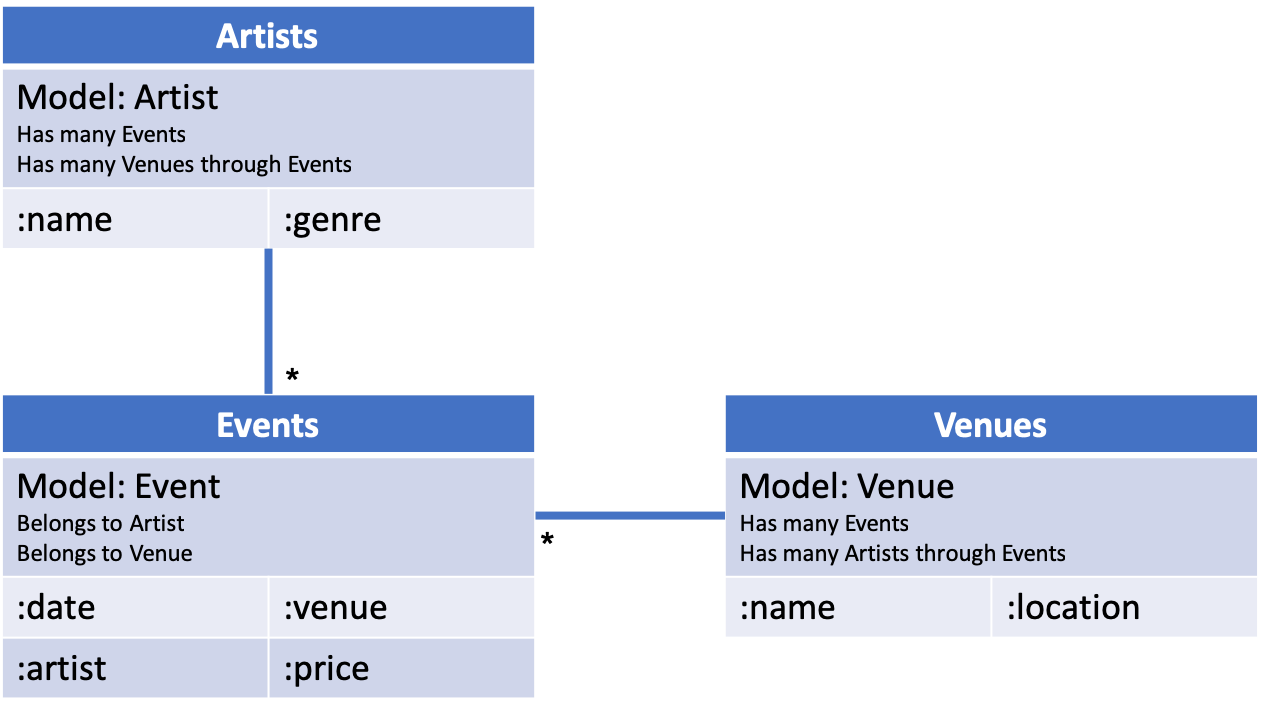
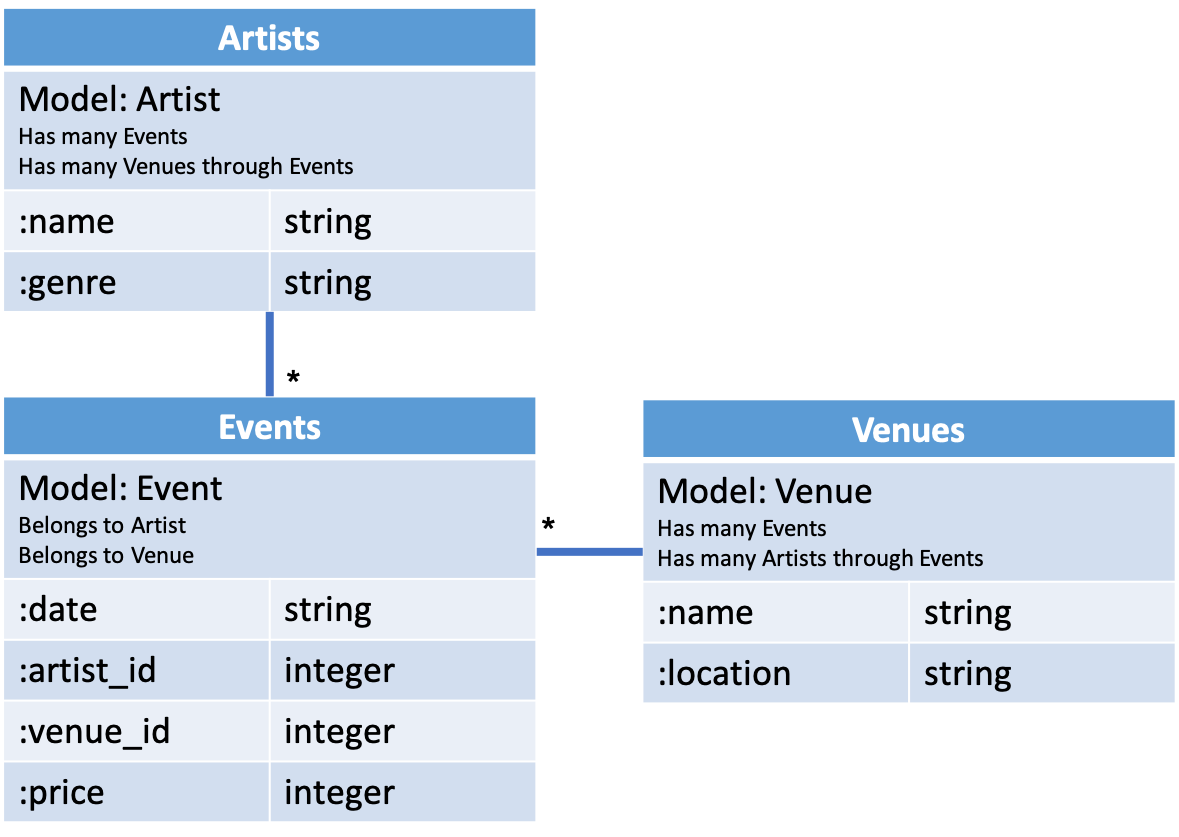
added object models daiagram

diff --git a/OUR_README.md b/OUR_README.md
@@ -10,8 +10,9 @@ This is a CLI-based application and as such, is somewhat limited in functionalit
 2. Search for shows by venue and city
 3. Search for shows by genre and city
 
-## Data Model
-There
+## Object Model
+
+
 
 ## Installation
 This is not a standalone executable. We recommend forking this entire directory and cloning it down. The run.rb file in /bin depends on quite a few other files.
@@ -21,12 +22,11 @@ This is write-up assumes you have a working Ruby environment on your computer wi
 ### 1. Create Database
 Cd into the root installation directory and run the following Rake task:
 `rake db:create`
-This will create the database that will store the results of your TicketMasterAPI query--and all artist, event, and venue objects.
+This will create the database that will store the results of your TicketMasterAPI query--and all artist, event, and venue objects created automatically afterwards.
 ### 2. Migrate tables and changes to DB
 `rake db:migrate`
-
 Your environment is now set up.
 
 ## Usage
 
-To start the app, run `ruby /bin/run.rb` from the installation directory.
+To start the app, run `ruby /bin/run.rb` from the installation directory. This will drop you into splash page for the app and the core of the primary application loop.
